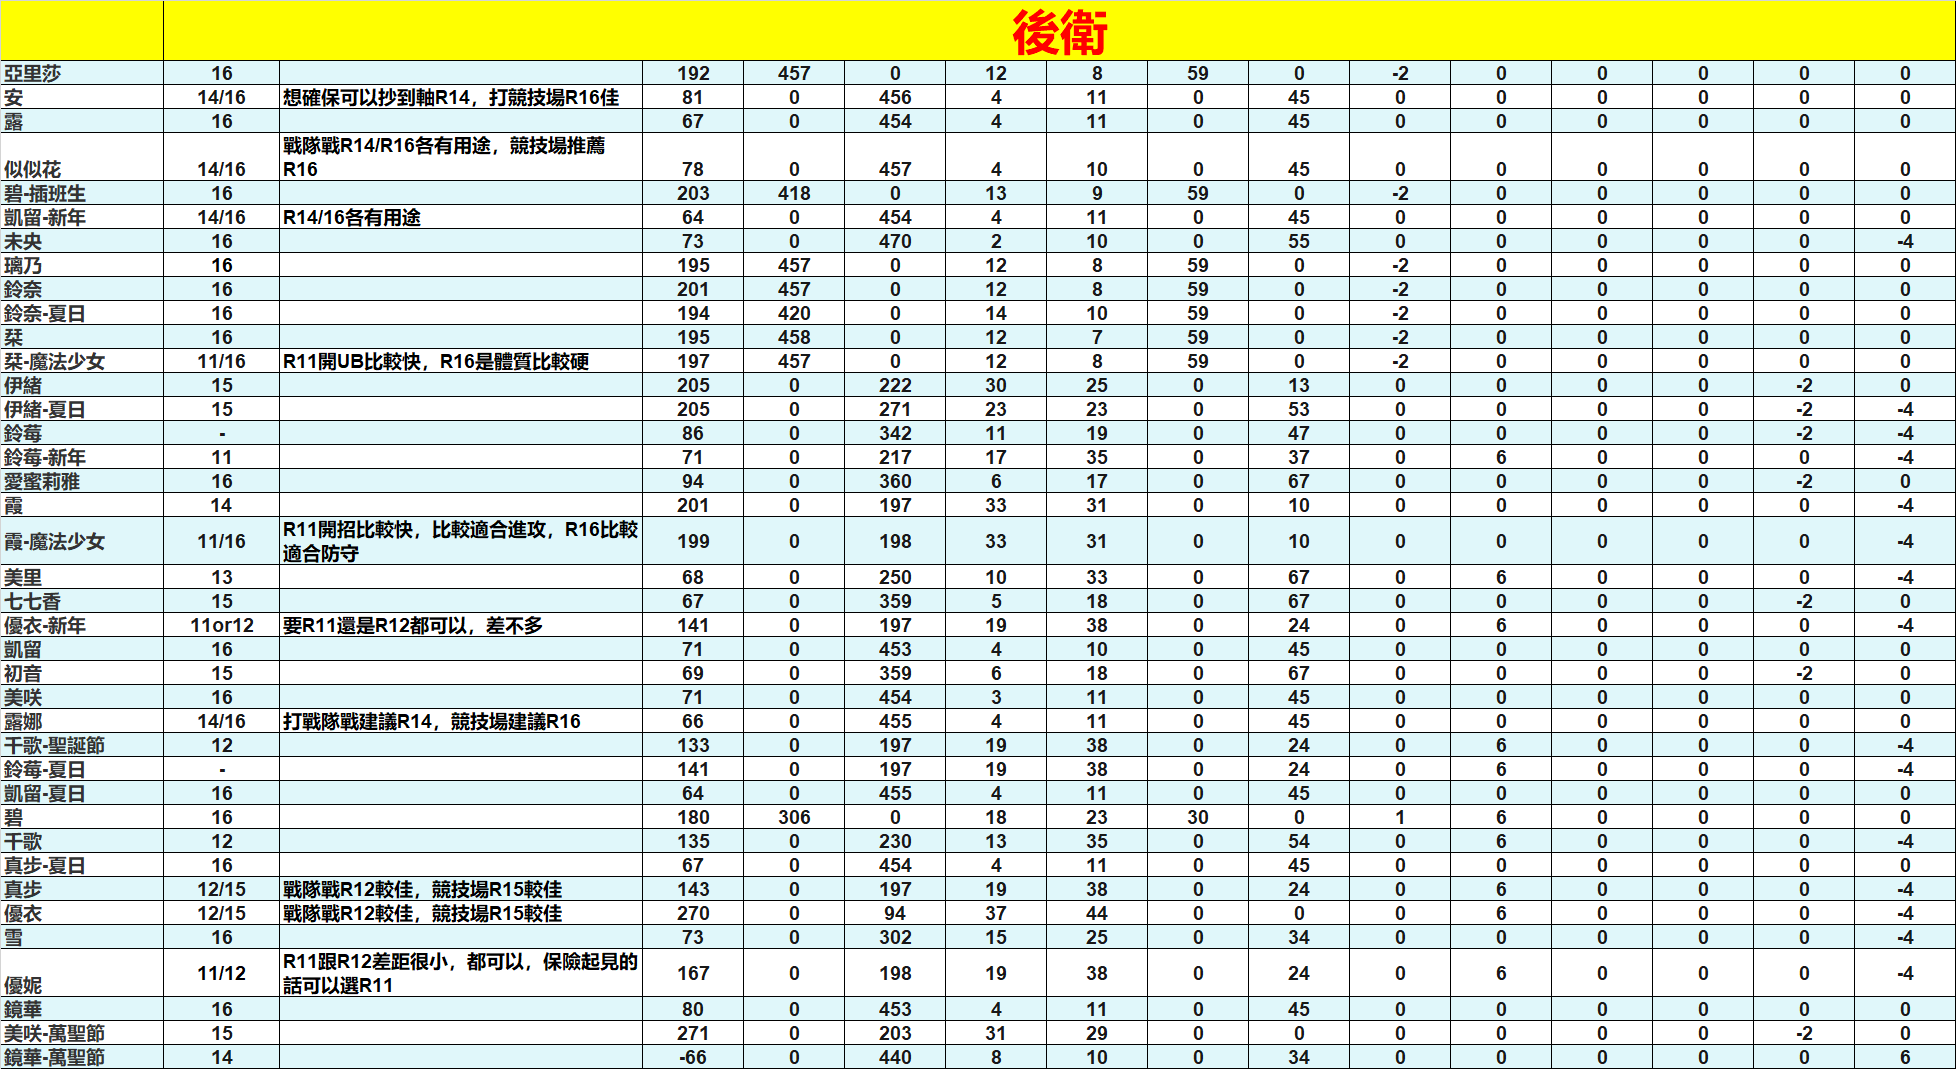
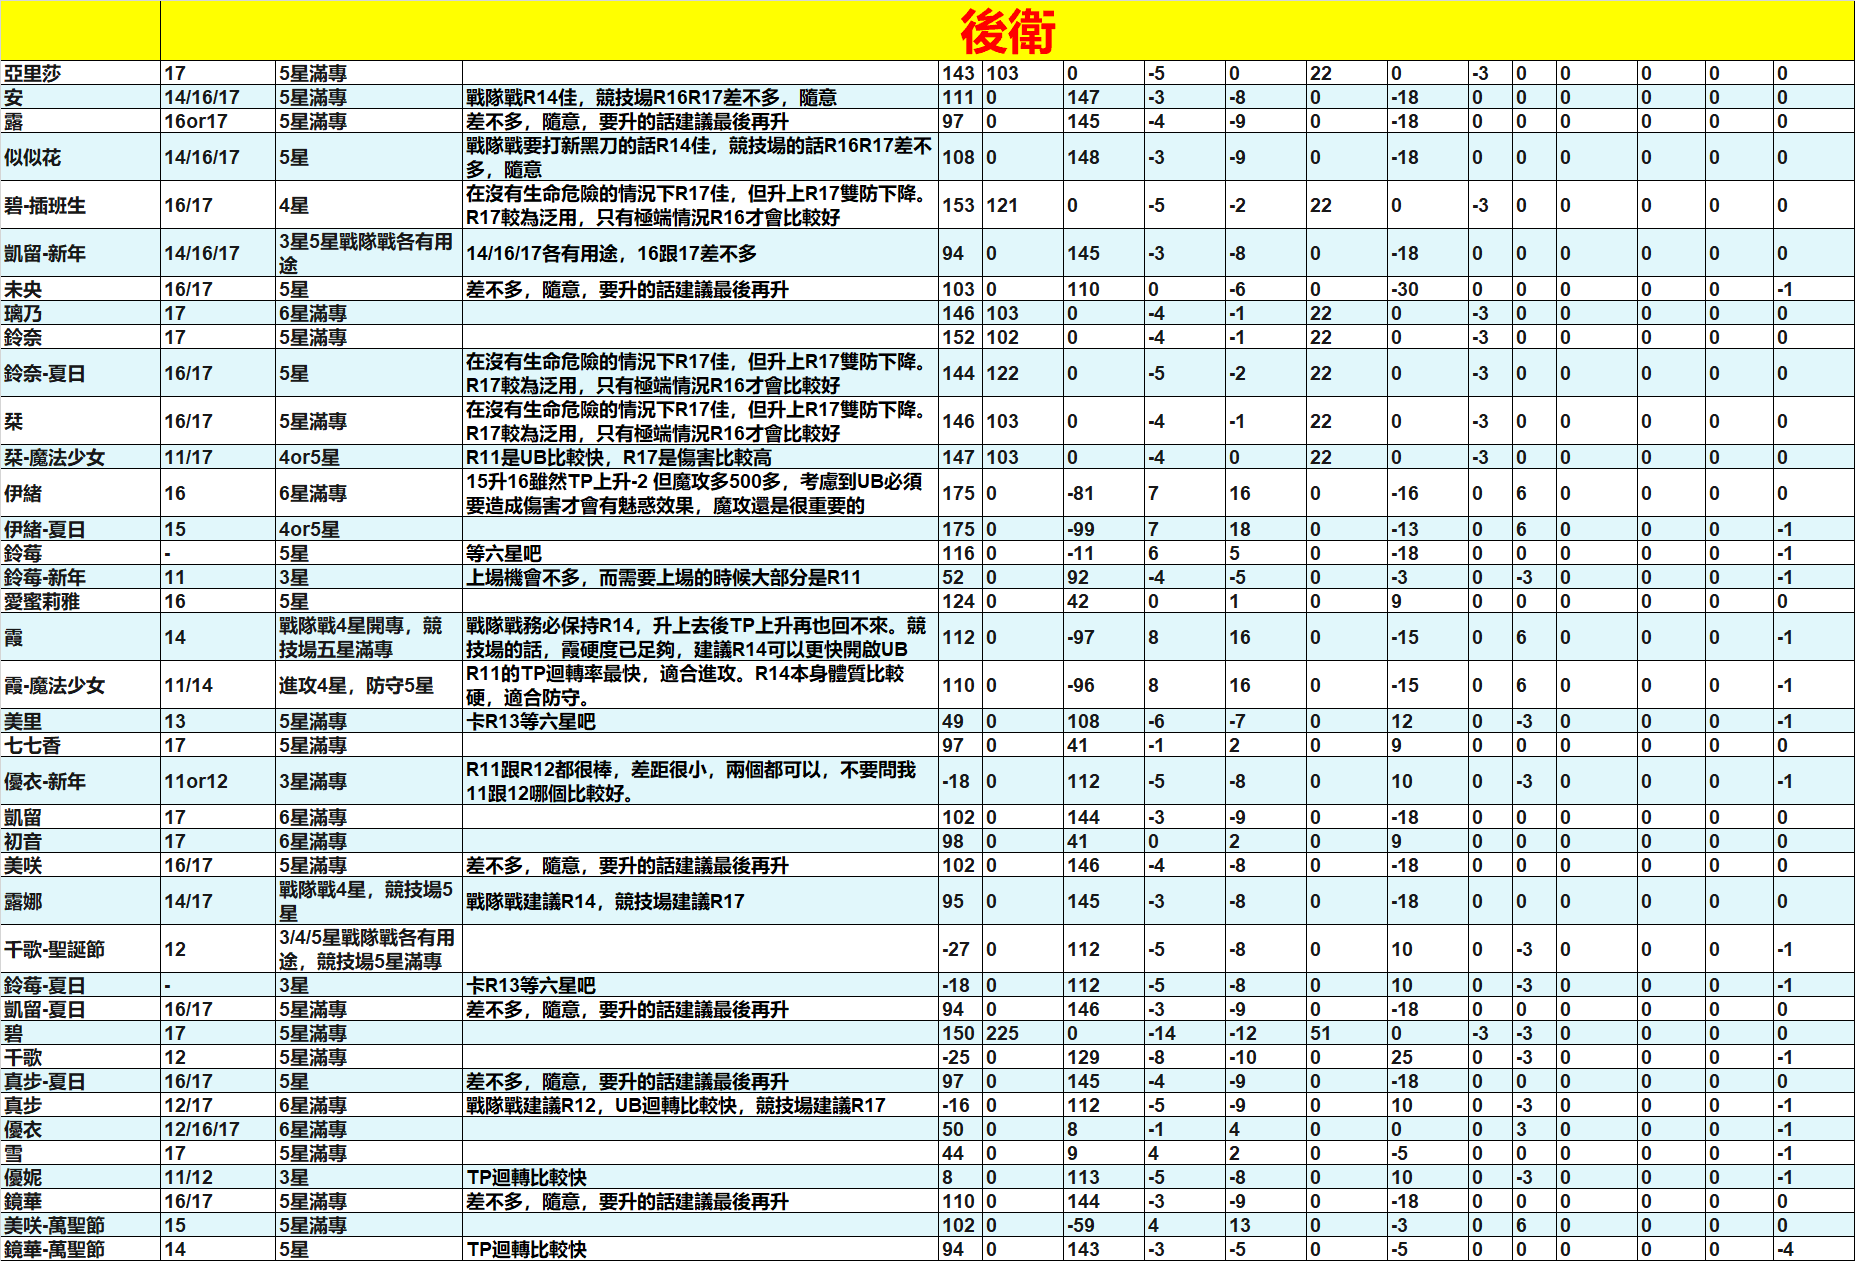
月度rank推荐更新

diff --git a/Chloe/group_chats/chats.py b/Chloe/group_chats/chats.py
@@ -42,19 +42,19 @@ async def decrease(session: NoticeSession):
 @on_command('前卫rank')
 async def _(session: CommandSession):
     path = os.path.join(os.path.dirname(__file__), "RF.png")
-    await session.send(f'無羽R16-5[CQ:image,file=file:///{path}]')
+    await session.send(f'無羽R17-3[CQ:image,file=file:///{path}]')
 
 
 @on_command('中卫rank')
 async def _(session: CommandSession):
     path = os.path.join(os.path.dirname(__file__), "RM.png")
-    await session.send(f'無羽R16-5[CQ:image,file=file:///{path}]')
+    await session.send(f'無羽R17-3[CQ:image,file=file:///{path}]')
 
 
 @on_command('后卫rank')
 async def _(session: CommandSession):
     path = os.path.join(os.path.dirname(__file__), "RB.png")
-    await session.send(f'無羽R16-5[CQ:image,file=file:///{path}]')
+    await session.send(f'無羽R17-3[CQ:image,file=file:///{path}]')
 
 
 @on_command('rank')
@@ -62,7 +62,7 @@ async def _(session: CommandSession):
     path1 = os.path.join(os.path.dirname(__file__), "Rank1.png")
     path2 = os.path.join(os.path.dirname(__file__), "Rank2.png")
     path3 = os.path.join(os.path.dirname(__file__), "Rank3.png")
-    await session.send(f'煌灵R16-5[CQ:image,file=file:///{path1}][CQ:image,file=file:///{path2}][CQ:image,file=file:///{path3}]')
+    await session.send(f'煌灵R17-3[CQ:image,file=file:///{path1}][CQ:image,file=file:///{path2}][CQ:image,file=file:///{path3}]')
 
 
 @on_command('黄骑充电')
